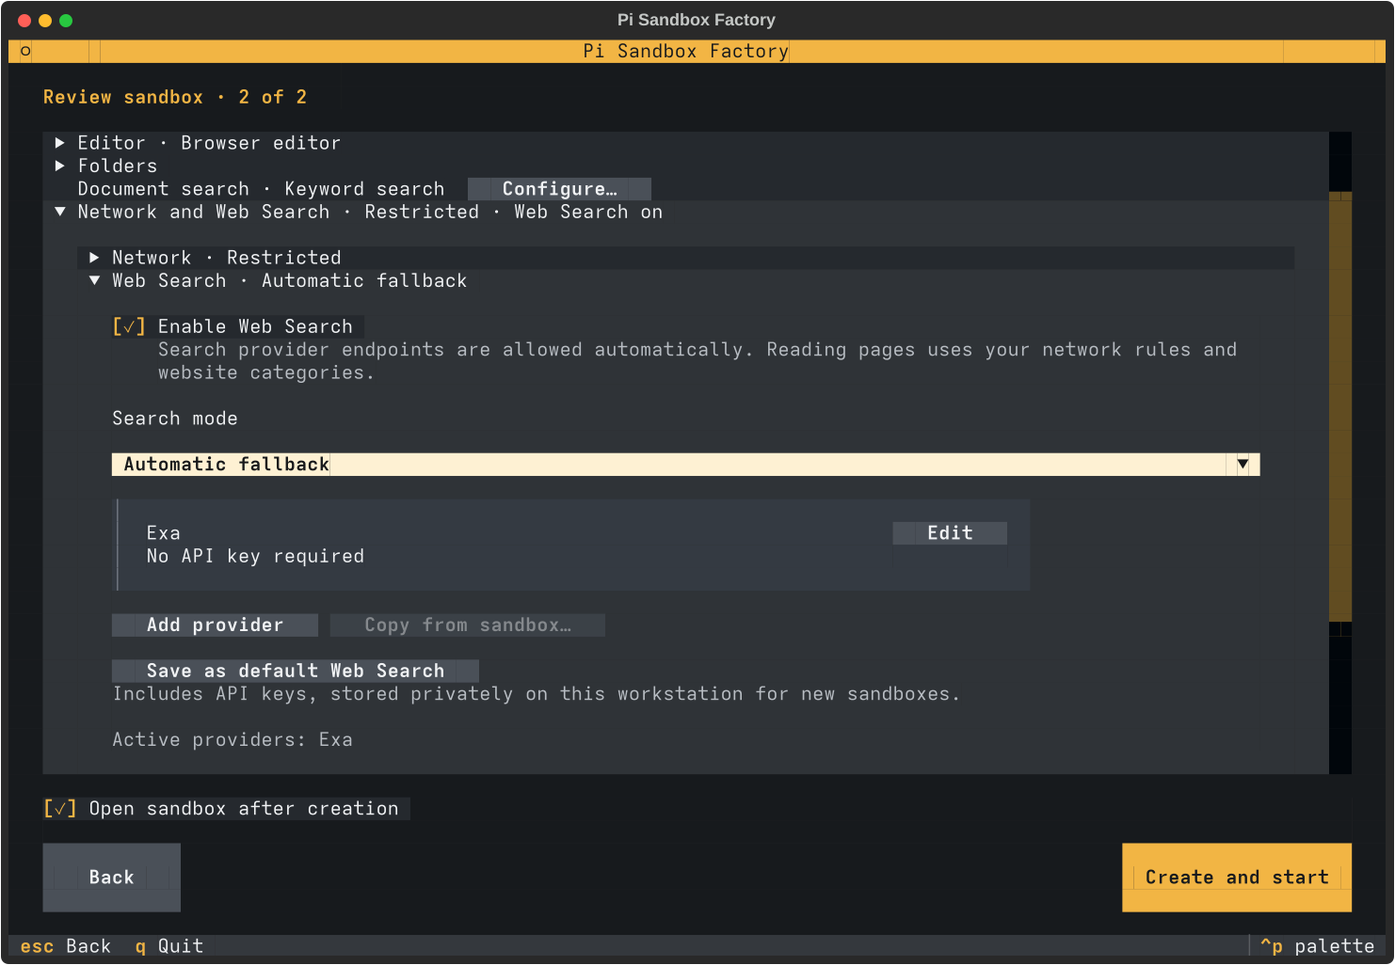
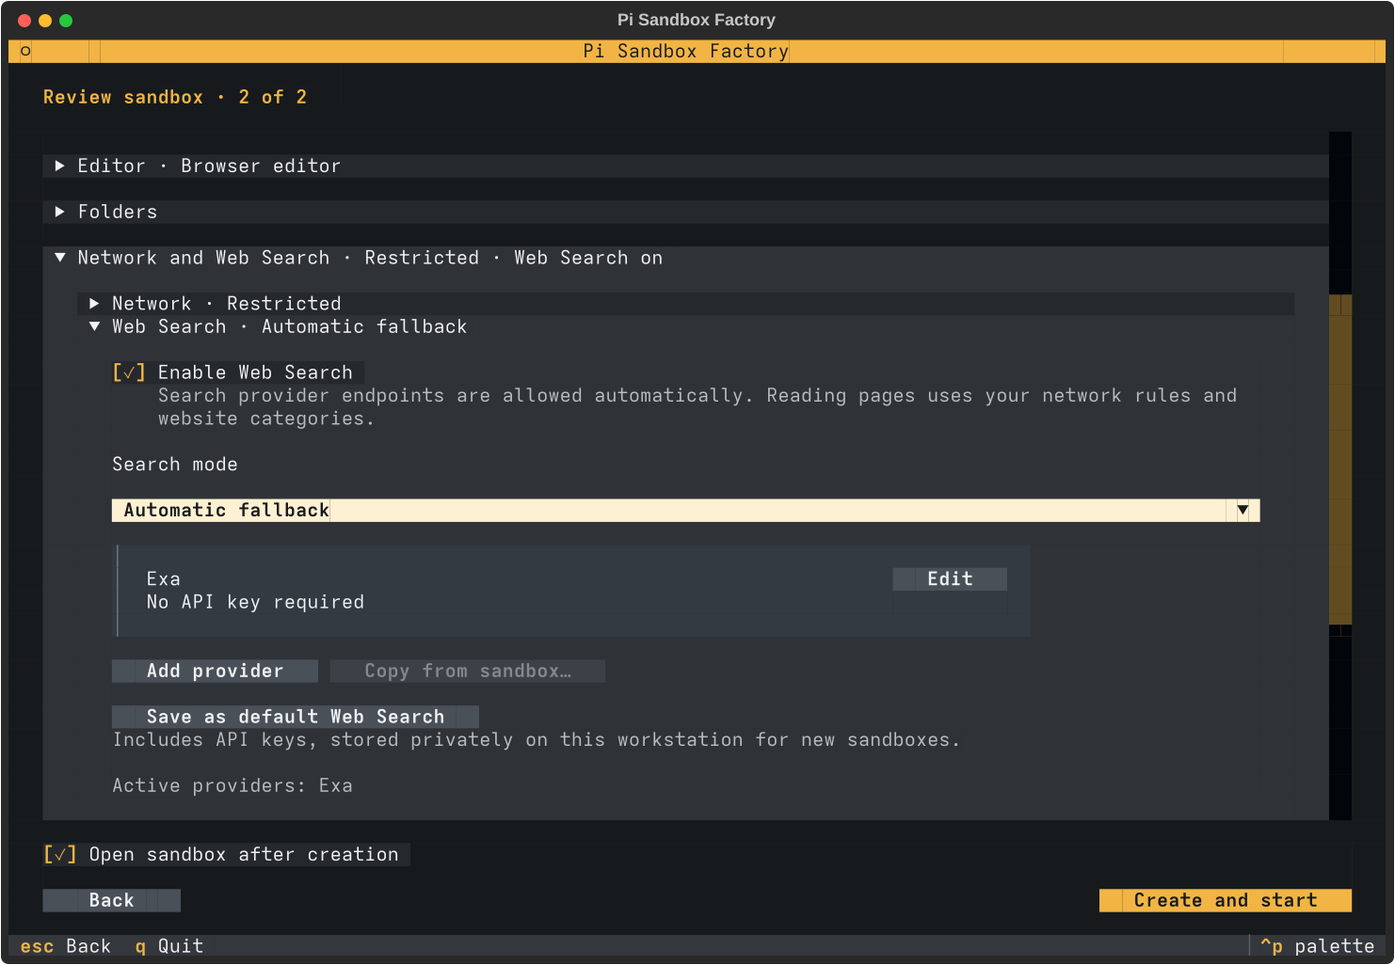
Keep Factory buttons one row and open model setup on creation

diff --git a/tests/test_tui_layout.py b/tests/test_tui_layout.py
@@ -80,7 +80,7 @@ class TUILayoutTests(unittest.TestCase):
                 primary = app.screen.query_one('#continue', Button)
                 actions = app.screen.query_one('.wizard-actions')
                 self.assertEqual(primary.region.right, actions.content_region.right)
-                self.assertEqual(primary.region.height, 3 if size[1] >= 32 else 1)
+                self.assertEqual(primary.region.height, 1)
                 self.assertLess(primary.region.bottom, app.screen.query_one('Footer').region.y)
                 app.screen.query_one('#name', Input).focus()
                 await pilot.pause()
@@ -259,13 +259,15 @@ class TUILayoutTests(unittest.TestCase):
             draft['local_model_ports'] = self.record['config']['local_model_ports']
             await app.push_screen(SettingsForm(draft))
             await pilot.pause()
-            sections = {category.section for category in CATEGORIES.values()}
+            sections = {v.section for k, v in CATEGORIES.items() if k != 'document-search'}
             category_widgets = [section for section in app.screen.query('*') if section.id in sections]
             titles = {section.id: (section.title if isinstance(section, Collapsible) else
                                    str(section.query_one('#document-search-summary').render())) for section in category_widgets}
             creation = [title.split(' · ', 1)[0] for title in titles.values()]
             models = app.screen.query_one('#hosted-section', Collapsible)
-            self.assertTrue(models.collapsed)
+            self.assertFalse(models.collapsed)
+            for before, after in zip(category_widgets, category_widgets[1:]):
+                self.assertEqual(after.region.y - before.region.bottom, 1, (before.id, after.id))
             self.assertIs(app.focused, models.query_one('CollapsibleTitle'))
             form = app.screen.query_one('.form')
             primary = app.screen.query_one('#apply', Button)
@@ -280,10 +282,10 @@ class TUILayoutTests(unittest.TestCase):
             menu = app.screen.query_one('#settings-actions', OptionList)
             prompts = [str(menu.get_option_at_index(i).prompt) for i in range(menu.option_count)]
             editing = [prompt.split(' · ', 1)[0] for prompt in prompts]
-            self.assertEqual(creation, expected_order)
+            self.assertEqual(creation, [label for label in expected_order if label != 'Document search'])
             self.assertEqual(editing, expected_order)
             for action in ('models', 'editor-settings', 'network-settings',
-                           'approval-settings', 'agent-tools', 'document-search', 'ssh-settings', 'communications'):
+                           'approval-settings', 'agent-tools', 'ssh-settings', 'communications'):
                 index = list(CATEGORIES).index(action)
                 self.assertEqual(prompts[index], titles[CATEGORIES[action].section])
             self.assertIn('Model Providers · Local models on · 1 enabled', prompts)
@@ -327,7 +329,7 @@ class TUILayoutTests(unittest.TestCase):
                     await pilot.pause()
                     section=form.query_one('#hosted-section',Collapsible)
                     local=form.query_one('#local-provider',Collapsible)
-                    self.assertTrue(section.collapsed)
+                    self.assertEqual(section.collapsed, context != 'create')
                     self.assertTrue(local.collapsed)
                     self.assertEqual(local.title, 'Local models · Off')
                     control=form.query_one('#local-models',Checkbox)
@@ -416,6 +418,8 @@ class TUILayoutTests(unittest.TestCase):
             form = SettingsForm(draft)
             await app.push_screen(form)
             await pilot.pause()
+            form.query_one('#skills-section', Collapsible).collapsed = False
+            await pilot.pause()
             configure = form.query_one('#configure-document-search', Button)
             self.assertEqual(form.query_one('#document-search-section').region.height, 1)
             configure.focus()
@@ -465,6 +469,9 @@ class TUILayoutTests(unittest.TestCase):
                 form = SettingsForm(draft, editing=editing, setting='document-search' if editing else None)
                 await app.push_screen(form)
                 await pilot.pause()
+                if not editing:
+                    form.query_one('#skills-section', Collapsible).collapsed = False
+                    await pilot.pause()
                 form.query_one('#configure-document-search').focus()
                 await pilot.press('enter')
                 await pilot.pause()
@@ -480,7 +487,7 @@ class TUILayoutTests(unittest.TestCase):
                 self.assertEqual(form.document_search['knowledge_embedding'], 'local' if editing else 'off')
                 await app.pop_screen()
 
-    async def test_agent_tools_excludes_configured_document_search_and_menu_opens_it_separately(self):
+    async def test_agent_tools_contains_document_search_and_menu_shortcut_opens_it(self):
         self.record['config']['options'] = {'knowledge_embedding': 'endpoint',
             'knowledge_embedding_url': 'https://vectors.example/v1', 'knowledge_embedding_model': 'test-embedding'}
         app = self.app()
@@ -498,7 +505,7 @@ class TUILayoutTests(unittest.TestCase):
                 form = app.screen
                 self.assertFalse(form.query('#embedding-url, #embedding-model, #knowledge-embedding'))
                 if action == 'agent-tools':
-                    self.assertFalse(form.query_one('#document-search-section').display)
+                    self.assertIn(form.query_one('#skills-section'), form.query_one('#document-search-section').ancestors)
                     self.assertNotIn('search', prompt.lower())
                     self.assertNotIn('search', form.query_one('#skills-section', Collapsible).title.lower())
                 else:
@@ -663,7 +670,7 @@ class TUILayoutTests(unittest.TestCase):
                     apply = form.query_one('#apply', Button)
                     self.assertIs(choice.parent, actions)
                     self.assertEqual(apply.region.right, actions.content_region.right)
-                    self.assertEqual(apply.region.height, 3 if size[1] >= 32 else 1)
+                    self.assertEqual(apply.region.height, 1)
                     self.assertEqual(choice.region.x, form.query_one('.form').content_region.x)
                     self.assertEqual(choice.region.x, form.query_one('#back').region.x)
                     self.assertEqual(choice.value, not editing)
@@ -729,7 +736,7 @@ class TUILayoutTests(unittest.TestCase):
                 save = app.screen.query_one('#repository-add', Button)
                 cancel = app.screen.query_one('#repository-cancel', Button)
                 self.assertEqual(save.region.right, actions.content_region.right)
-                self.assertEqual(save.region.height, 3 if size[1] >= 32 else 1)
+                self.assertEqual(save.region.height, 1)
                 self.assertEqual(cancel.region.height, save.region.height)
                 self.assertGreater(cancel.region.x, actions.content_region.x)
                 self.assertGreater(actions.region.y, app.screen.query_one('VerticalScroll').region.bottom)
@@ -772,7 +779,7 @@ class TUILayoutTests(unittest.TestCase):
                                  f'{label} {description}')
             self.assertIn('Settings → Approvals & sandbox.', str(list(help_box.query(Static))[-1].render()))
             close = app.screen.query_one('#close-approval-help', Button)
-            self.assertEqual(close.region.height, 3)
+            self.assertEqual(close.region.height, 1)
             for y in range(close.region.y, close.region.bottom):
                 self.assertIs(app.screen.get_widget_at(close.region.x + 1, y)[0], close)
             await pilot.click('#close-approval-help')

diff --git a/pi_sandbox_factory/sandbox_tui.py b/pi_sandbox_factory/sandbox_tui.py
@@ -2584,6 +2584,8 @@ class SettingsForm(Screen):
                     if self.guide:
                         yield Button('Getting started…', id='review-profile-guide')
             for action, category in CATEGORIES.items():
+                if action == 'document-search' and self.setting != action:
+                    continue
                 compose_category = getattr(self, 'compose_' + action.replace('-', '_'))
                 yield from compose_category(category, value, selected)
             yield Feedback('', id='form-error', classes='error', markup=False)
@@ -2624,7 +2626,7 @@ class SettingsForm(Screen):
         available=registry.choices('provider')
         available.update({name:row['manifest'].get('description',name) for name,row in saved_rows.items() if name not in available})
         self.provider_forms={}
-        with Collapsible(title=category.label, collapsed=True, id=category.section, classes='spaced-form-fields'):
+        with Collapsible(title=category.label, collapsed=self.editing or self.defaults_mode, id=category.section, classes='spaced-form-fields'):
             ports = value.get('local_model_ports')
             with Collapsible(title=local_models_title(bool(ports)), id='local-provider'):
                 with Vertical(classes='setting', id='local-enable-setting'):
@@ -2733,7 +2735,7 @@ class SettingsForm(Screen):
 
     def document_search_summary(self):
         mode = search_summary(self.document_search, self.document_search_sources)
-        return mode if self.setting else f'{CATEGORIES["document-search"].label} · {mode}'
+        return mode if self.setting == 'document-search' else f'{CATEGORIES["document-search"].label} · {mode}'
 
     @on(Button.Pressed, '#configure-document-search')
     def configure_document_search(self, event):
@@ -2759,6 +2761,8 @@ class SettingsForm(Screen):
 
     def compose_agent_tools(self, category, value, selected):
         with Collapsible(title=category.label, collapsed=True, id=category.section, classes='spaced-form-fields'):
+            if self.setting != 'document-search':
+                yield from self.compose_document_search(CATEGORIES['document-search'], value, selected)
             yield Checkbox('Enable optional subagents', value=value['subagents'], id='subagents')
             with Vertical(classes='setting'):
                 yield Label('Conversation recall')
@@ -3333,7 +3337,7 @@ class Cockpit(App):
     PromptLibrary, PromptChoice, #system-prompt-preview { height: auto; }
     PromptChoice TextArea, #prompt-text { height: 7; padding: 0 1; }
     #system-prompt-section { margin: 1 0; }
-    .settings-review #system-prompt-section.-collapsed { margin: 0; }
+    .settings-review #system-prompt-section { margin: 0 0 1 0; }
     #system-prompt-preview { margin: 1 0 0 0; }
     #system-prompt-preview > TextArea { margin: 0; }
     #edit-prompt-copy { margin: 1 0 0 0; }
@@ -3420,8 +3424,6 @@ class Cockpit(App):
     #hosted-section Button:focus, ModelsScreen Button:focus,
     .key-dialog Button:focus, LocalKeysDialog Button:focus { text-style: bold underline; }
     Collapsible { margin-bottom: 1; padding: 0; border: none; }
-    .settings-review .form > Collapsible.-collapsed,
-    .settings-review .form > CommunicationsForm > Collapsible.-collapsed { margin: 0; }
     Collapsible > Contents { padding: 1 3; }
     #local-provider > Contents { padding: 1 3 0 3; }
     #local-provider > CollapsibleTitle, #live-local-provider > CollapsibleTitle,
@@ -3436,22 +3438,16 @@ class Cockpit(App):
     .wizard-actions { dock: bottom; height: 3; padding: 1 3; margin-bottom: 1; width: 100%; }
     .settings-actions { height: 5; padding: 1 3; }
     .action-buttons { height: 1; }
-    .wizard-actions Button { min-width: 12; padding: 0 1; }
+    .wizard-actions Button { min-width: 12; padding: 0 2; }
     .wizard-actions Button.-primary { dock: right; margin-right: 0; }
-    .tall-terminal .wizard-actions { height: 5; }
-    .tall-terminal .wizard-actions Button { height: 3; padding: 1 1; }
-    .tall-terminal .settings-actions { height: 7; }
-    .tall-terminal .action-buttons { height: 3; }
     .dialog-actions { align-horizontal: right; height: 1; min-height: 1; margin: 1 0 0 0; }
-    .tall-terminal .dialog-actions { height: 3; min-height: 3; }
-    .tall-terminal .dialog-actions Button { height: 3; padding: 1 1; }
-    .dialog-actions Button { min-width: 12; padding: 0 1; }
+    .dialog-actions Button { min-width: 12; padding: 0 2; }
     .action-spacer { width: 1fr; height: 1; }
     .profile-guide-row { height: auto; }
     .profile-guide-row Button { padding: 0 2; margin: 0 1; }
     .review-profile-row { margin: 0 0 1 0; }
     .review-profile-row Static { width: 1fr; height: auto; }
-    Button { height: 1; border: none; margin-right: 1; min-width: 8; padding: 0 1; background: #4a5058; }
+    Button { height: 1; max-height: 1; border: none; margin-right: 1; min-width: 8; padding: 0 1; background: #4a5058; }
     Button:hover { background: #5a616a; }
     .dialog-actions Button:last-child { margin-right: 0; }
     .key-dialog .key-dialog-fields { max-height: 65vh; }
@@ -3487,9 +3483,6 @@ class Cockpit(App):
     #home > .buttons { margin: 0 0 1 0; }
     #home > .buttons Label { width: 1fr; }
     #home > .buttons Button:last-child { margin-right: 0; }
-    .tall-terminal #home > .buttons, .tall-terminal #home > .buttons Button { height: 3; }
-    .tall-terminal #home > .buttons Button { padding: 1 2; }
-    .tall-terminal #home > .buttons Label { padding: 1 0; }
     .path-row { height: 1; margin: 1 0; }
     NewSandbox .form > .path-row { padding: 0 1 0 0; }
     .path-row Input { width: 1fr; margin: 0; }
@@ -3516,8 +3509,7 @@ class Cockpit(App):
         display: none; height: auto; margin: 1 3 0 3; padding: 0 1;
         background: #30291d; border-left: solid $warning;
     }
-    #document-search-section { height: auto; min-height: 1; padding: 0 3; margin: 0 0 1 0; background: #25292e; }
-    .settings-review #document-search-section { margin: 0; }
+    #document-search-section { height: auto; min-height: 1; padding: 0; margin: 0 0 1 0; }
     #skills-section.focused-setting > Contents { padding: 0 2 0 0; }
     #document-search-section.focused-setting { padding: 0; background: transparent; }
     #document-search-summary { width: auto; height: auto; }
@@ -3610,9 +3602,7 @@ class Cockpit(App):
     .sandbox-alert-heading { height: auto; }
     .sandbox-alert-title { width: 1fr; text-style: bold; }
     .sandbox-alert.-blocking .sandbox-alert-title { color: #ff9184; }
-    .tall-terminal .sandbox-alert-title { height: 3; padding: 1 0; }
     .sandbox-alert-action { width: auto; margin: 0 0 0 2; padding: 0 2; }
-    .tall-terminal .sandbox-alert-action { height: 3; padding: 1 2; }
     .sandbox-alert-action:focus { background: #f2b544; color: #17191b; text-style: bold; }
     Screen:nocolor .sandbox-alert-action:focus { background: white; color: black; }
     .sandbox-alert-description { height: auto; margin-top: 1; }

diff --git a/tests/test_document_search_ui.py b/tests/test_document_search_ui.py
@@ -35,6 +35,8 @@ class DocumentSearchTests(unittest.IsolatedAsyncioTestCase):
     async def open_form(self, pilot, editing=False):
         form = SettingsForm(self.draft, editing=editing, setting='document-search' if editing else None)
         await self.app.push_screen(form)
+        if not editing:
+            form.query_one('#skills-section').collapsed = False
         await pilot.pause()
         return form
 
@@ -86,12 +88,30 @@ class DocumentSearchTests(unittest.IsolatedAsyncioTestCase):
                 await pilot.press('escape')
                 self.assertEqual(form.document_search['knowledge_embedding_provider'], 'openrouter')
 
+    async def test_plugin_without_catalogue_explains_update_for_each_workflow(self):
+        del self.draft['model_providers'][0]['manifest']['inference']['embeddingCatalogue']
+        for editing in (False, True):
+            self.app = Cockpit(Path(self.temp.name), FakeService([]))
+            async with self.app.run_test(size=(80, 24)) as pilot:
+                form = await self.open_form(pilot, editing=editing)
+                dialog = await self.configure(form, pilot)
+                help_field = dialog.query_one('#knowledge-model-help')
+                self.assertNotIn('Library', str(help_field.render()))
+                dialog.query_one('#knowledge-embedding', Select).value = 'endpoint'
+                await pilot.pause()
+                help_text = str(help_field.render())
+                self.assertIn('This version of Example Models does not list embedding models', help_text)
+                self.assertIn('Library → Providers', help_text)
+                self.assertEqual('Update sources and recreate' in help_text, editing)
+                self.assertNotIn('example', dialog.sources)
+
     async def test_visible_fields_have_blank_rows_above_and_below_at_all_sizes(self):
         for size in ((80, 24), (120, 40), (220, 50)):
             app = Cockpit(Path(self.temp.name), FakeService([]))
             async with app.run_test(size=size) as pilot:
                 form = SettingsForm(self.draft)
                 await app.push_screen(form)
+                form.query_one('#skills-section').collapsed = False
                 await pilot.pause()
                 form.query_one('#configure-document-search').focus()
                 with patch.object(embedding_models, 'catalogue', return_value=['example-embedding-v2']):

diff --git a/pi_sandbox_factory/document_search_ui.py b/pi_sandbox_factory/document_search_ui.py
@@ -38,6 +38,9 @@ class DocumentSearchDialog(ModalScreen[Optional[dict]]):
         self.credentials = credentials
         self.saved_config = saved_config
         self.sources = embedding_models.sources(config)
+        self.unlisted_plugins = [row['manifest'].get('description') or row['name']
+                                 for row in config.get('model_providers', []) if row['name'] not in self.sources
+                                 and row['name'] != 'local']
         provider = current.get('knowledge_embedding_provider')
         if not provider and current['knowledge_embedding_url']:
             matches = [key for key, source in self.sources.items() if source['url'] == current['knowledge_embedding_url']]
@@ -108,11 +111,18 @@ class DocumentSearchDialog(ModalScreen[Optional[dict]]):
         self.query_one('#embedding-provider-setting').display = bool(self.sources or self.missing_provider)
         self.query_one('#embedding-url-setting').display = provider == CUSTOM
         source = self.sources.get(provider)
-        self.query_one('#knowledge-model-help').update({
+        help_text = {
             'off': 'Pi searches file names and text. No embedding model is needed.',
             'local': 'This sandbox already has an offline embedding model.',
             'endpoint': 'An embedding model can be used to find passages even when they use different words from your search.',
-        }[mode])
+        }[mode]
+        if mode == 'endpoint' and self.unlisted_plugins:
+            for plugin in self.unlisted_plugins:
+                help_text += f'\nThis version of {plugin} does not list embedding models.'
+            help_text += ' If the plugin supports embeddings, update it in Library → Providers.'
+            if self.saved_config:
+                help_text += ' Then choose Actions… → Update sources and recreate… for this sandbox.'
+        self.query_one('#knowledge-model-help').update(help_text)
         missing = provider != CUSTOM and not source
         self.query_one('#embedding-provider-error', Feedback).update(
             'This provider is no longer configured. Choose another provider or a custom server.' if missing else '')

diff --git a/tests/check_button_heights.py b/tests/check_button_heights.py
@@ -1,0 +1,35 @@
+"""Run the Python suite and fail on oversized buttons in any rendered test screen."""
+import sys
+import unittest
+from unittest.mock import patch
+
+from textual.widgets import Button
+
+
+# Exceptions require explicit user approval. Key by (screen class, button ID).
+APPROVED_HEIGHTS = {}
+
+
+def main():
+    resize = Button._size_updated
+    violations = set()
+
+    def check_size(button, size, *args, **kwargs):
+        declared = button.styles.height
+        height = max(size.height, declared.value if declared and declared.is_cells else 0)
+        if height > 1:
+            screen = type(button.screen).__name__
+            if not button.id or APPROVED_HEIGHTS.get((screen, button.id)) != height:
+                violations.add(f'{screen}: {button.id or button.label} requests or uses {height:g} rows')
+        return resize(button, size, *args, **kwargs)
+
+    # Textual supplies the allocated rectangle here, including borders and padding.
+    with patch.object(Button, '_size_updated', check_size):
+        suite = unittest.main(module=None, exit=False)
+    for violation in sorted(violations):
+        print(f'Button height violation: {violation}', file=sys.stderr)
+    return not violations and suite.result.wasSuccessful()
+
+
+if __name__ == '__main__':
+    sys.exit(0 if main() else 1)

diff --git a/tests/test_packages_ui.py b/tests/test_packages_ui.py
@@ -155,7 +155,7 @@ class PackageUITests(unittest.TestCase):
                         self.assertEqual(primary.region.right, bar.content_region.right)
                         self.assertGreater(primary.region.y, bar.region.y)
                         self.assertLess(primary.region.bottom, app.screen.query_one('Footer').region.y)
-                        self.assertEqual(primary.region.height, 3 if size[1] >= 32 else 1)
+                        self.assertEqual(primary.region.height, 1)
                         self.assertIs(app.screen.get_widget_at(primary.region.x, primary.region.y)[0], primary)
                         if primary_id == 'package-install':
                             await pilot.click('#package-install'); await pilot.pause()

diff --git a/tests/render_tui.py b/tests/render_tui.py
@@ -358,6 +358,8 @@ async def capture(size):
                     draft.update(name='research', workspace='/home/user/projects/research')
                     await app.push_screen(SettingsForm(draft))
                     await shot('research-local-review')
+                    app.screen.query_one('#skills-section', Collapsible).collapsed = False
+                    await pilot.pause()
                     configure = app.screen.query_one('#configure-document-search', Button)
                     configure.focus()
                     await pilot.pause()

diff --git a/AGENTS.md b/AGENTS.md
@@ -154,8 +154,9 @@ Do not solve VM mount failures with recursive ownership changes or wider host mo
   dialogs separately.
 - Align page Back/Cancel left and the primary action right, at the form edges.
   Group dialog actions on the right, Cancel before Save. Keep contextual actions
-  beside their object. Use three-row page action buttons at 32 terminal rows or
-  more; below that, use one row with two columns of inner padding.
+  beside their object. Every button uses one terminal row at every screen size. Keep vertical padding
+  outside the button. A taller button requires explicit user consent and a
+  named exception in the build check. There are no approved exceptions.
   Dock page actions below scrollable
   fields, with three columns of side padding and a blank row above and below
   their contents. Reserve the status-bar row separately; it must not cover the
@@ -165,7 +166,8 @@ Do not solve VM mount failures with recursive ownership changes or wider host mo
   Escape cancels dialogs without applying changes.
 - Put common tasks in the visible Settings menu. A shortcut should open and focus
   the existing form, not duplicate its save logic. Keep optional setup collapsed
-  and show its state in the heading. Disable fields whose controlling option is off.
+  and show its state in the heading. Open Model Providers on initial sandbox review.
+  Separate adjacent review sections with one blank row. Disable fields whose controlling option is off.
 - Review rendered screens at 80×24, 120×40 and 220×50, including expanded sections, long
   paths, errors and keyboard focus. Check monochrome checkbox states too. Geometry
   tests complement visual inspection; neither replaces the other.

diff --git a/docs/local-knowledge.md b/docs/local-knowledge.md
@@ -28,7 +28,7 @@ installs `pi-knowledge`. When you index files, Pi sends passages to the embeddin
 provider you choose. When you search the index, Pi sends your query to the same
 provider. Factory downloads no embedding model. [pi-knowledge package](https://pi.dev/packages/pi-knowledge)
 
-1. On **Review sandbox**, choose **Document search → Configure…**. For an
+1. On **Review sandbox**, expand **Agent tools** and choose **Configure…** beside **Document search**. For an
    existing sandbox, open **Settings → Document search → Configure…**.
 2. Set **Search mode** to **Semantic search with pi-knowledge**, then choose where to run it.
    - **Connected provider.** Pick OpenRouter or a supported provider plugin under

diff --git a/TESTING.md b/TESTING.md
@@ -760,6 +760,10 @@ Node runtime, which Pendant uses. Check both when updating this package.
 
 ## Terminal layout
 
+CI runs the Python suite with `python tests/check_button_heights.py discover -s tests`.
+The check fails if a rendered button requests or occupies more than one terminal
+row, including buttons shown after opening a dialog or expanding a section.
+
 Run the TUI suites, including `test_tui_layout.py` and `test_packages_ui.py`.
 Review new and edited forms at 80×24, 120×40 and 220×50, including expanded sections,
 validation errors and long paths. Inspect the rendered view as well as geometry;
